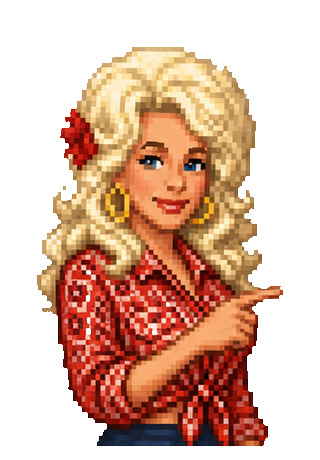
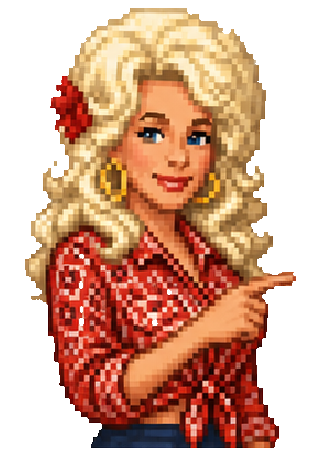
fix(PORT-QA-003): preserve pointing pose scale

diff --git a/site/tests/browser/jolene-capabilities.spec.ts b/site/tests/browser/jolene-capabilities.spec.ts
@@ -1,8 +1,40 @@
 import AxeBuilder from '@axe-core/playwright';
-import { expect, test } from '@playwright/test';
+import { expect, test, type Page } from '@playwright/test';
 
 const contactIntentEnabled = process.env.JOLENE_UI_CONTACT_ENABLED === 'true';
 const scenario = process.env.JOLENE_UI_SCENARIO ?? 'success';
+
+type OpaqueBounds = {
+  minY: number;
+  maxY: number;
+  height: number;
+};
+
+async function readOpaqueBounds(page: Page, source: string): Promise<OpaqueBounds> {
+  return page.evaluate(async (assetSource) => {
+    const response = await fetch(assetSource);
+    if (!response.ok) throw new Error(`Unable to load avatar frame: ${response.status}`);
+    const bitmap = await createImageBitmap(await response.blob());
+    const canvas = document.createElement('canvas');
+    canvas.width = bitmap.width;
+    canvas.height = bitmap.height;
+    const context = canvas.getContext('2d', { willReadFrequently: true });
+    if (!context) throw new Error('Unable to inspect avatar frame pixels.');
+    context.drawImage(bitmap, 0, 0);
+    const pixels = context.getImageData(0, 0, canvas.width, canvas.height).data;
+    let minY = canvas.height;
+    let maxY = -1;
+    for (let y = 0; y < canvas.height; y += 1) {
+      for (let x = 0; x < canvas.width; x += 1) {
+        if (pixels[(y * canvas.width + x) * 4 + 3] <= 16) continue;
+        minY = Math.min(minY, y);
+        maxY = Math.max(maxY, y);
+      }
+    }
+    if (maxY < minY) throw new Error('Avatar frame contains no visible pixels.');
+    return { minY, maxY, height: maxY - minY + 1 };
+  }, source);
+}
 
 test('standalone client hydrates and the mobile launcher opens the modal', async ({ page }) => {
   const failedClientChunks = new Set<string>();
@@ -288,6 +320,44 @@ test('opening an evidence Point visibly renders Dolly pointing', async ({ page }
     Array.from(pointingRenderedPixels),
     'The Point reaction must visibly replace the idle pixels with the pointing pose.',
   ).not.toEqual(Array.from(idleRenderedPixels));
+});
+
+test('opening an evidence Point preserves Dolly character height and baseline', async ({ page }) => {
+  test.skip(scenario !== 'success' || contactIntentEnabled, 'Runs once in the canonical success configuration.');
+  await page.setViewportSize({ width: 390, height: 844 });
+  await page.addInitScript(() => window.sessionStorage.setItem('jolene-country-host-intro-seen-v1', 'true'));
+  await page.goto('/');
+  await page.getByRole('button', { name: /Ask Jolene/ }).click();
+
+  const panel = page.getByRole('dialog', { name: 'Ask Jolene' });
+  const avatar = panel.locator('.jolene-avatar');
+  const question = panel.getByLabel('Ask about Carl’s work or experience');
+  await question.fill('Which project best shows Carl’s product engineering work?');
+  await panel.getByRole('button', { name: 'Ask Jolene', exact: true }).click();
+  await expect(avatar).toHaveAttribute('data-avatar-state', 'idle');
+
+  const idleTransform = await avatar.evaluate((element) => getComputedStyle(element).transform);
+  const idleBounds = await readOpaqueBounds(page, '/jolene/approved-animation/idle-rest.png');
+  const evidence = panel.locator('details.jolene-evidence').last();
+  await evidence.locator(':scope > summary').click();
+  await expect(avatar).toHaveAttribute('data-avatar-state', 'idle', { timeout: 1_500 });
+
+  const firstPoint = evidence.locator('details.jolene-claim').first();
+  await firstPoint.locator(':scope > summary').click();
+  await expect(avatar).toHaveAttribute('data-avatar-state', 'evidence');
+  await expect(avatar).toHaveAttribute('data-avatar-frame', 'evidence-2');
+
+  const pointingTransform = await avatar.evaluate((element) => getComputedStyle(element).transform);
+  const pointingBounds = await readOpaqueBounds(page, '/jolene/approved-animation/evidence-point.png');
+  expect(pointingTransform, 'The Point reaction must not apply a different CSS scale.').toBe(idleTransform);
+  expect(
+    Math.abs(pointingBounds.height - idleBounds.height),
+    'The pointing silhouette must preserve Dolly’s canonical 440-pixel character height.',
+  ).toBeLessThanOrEqual(2);
+  expect(
+    Math.abs(pointingBounds.maxY - idleBounds.maxY),
+    'The pointing silhouette must remain seated on the same bottom baseline.',
+  ).toBeLessThanOrEqual(2);
 });
 
 test('pixel avatar stays clear of controls at an iPhone viewport', async ({ page }) => {

diff --git a/site/app/jolene/jolene-avatar.tsx b/site/app/jolene/jolene-avatar.tsx
@@ -41,8 +41,8 @@ type PixiRuntime = {
 const frameCatalog = frameCatalogJson.frames as Record<string, FrameDefinition>;
 const stateDefinitions = stateContractJson.definitions as Record<AvatarState, StateDefinition>;
 const interruptStates = new Set<AvatarState>(stateContractJson.interruption.alwaysInterruptFor as AvatarState[]);
-const atlasManifestPath = '/jolene/approved-animation/jolene-approved-atlas.json?v=f761806433d1';
-const atlasImagePath = '/jolene/approved-animation/jolene-approved-atlas.png?v=ff9e65504266';
+const atlasManifestPath = '/jolene/approved-animation/jolene-approved-atlas.json?v=df2a3bd0a3a7';
+const atlasImagePath = '/jolene/approved-animation/jolene-approved-atlas.png?v=e4d4375e596e';
 
 export type JoleneAvatarController = {
   state: AvatarState;
